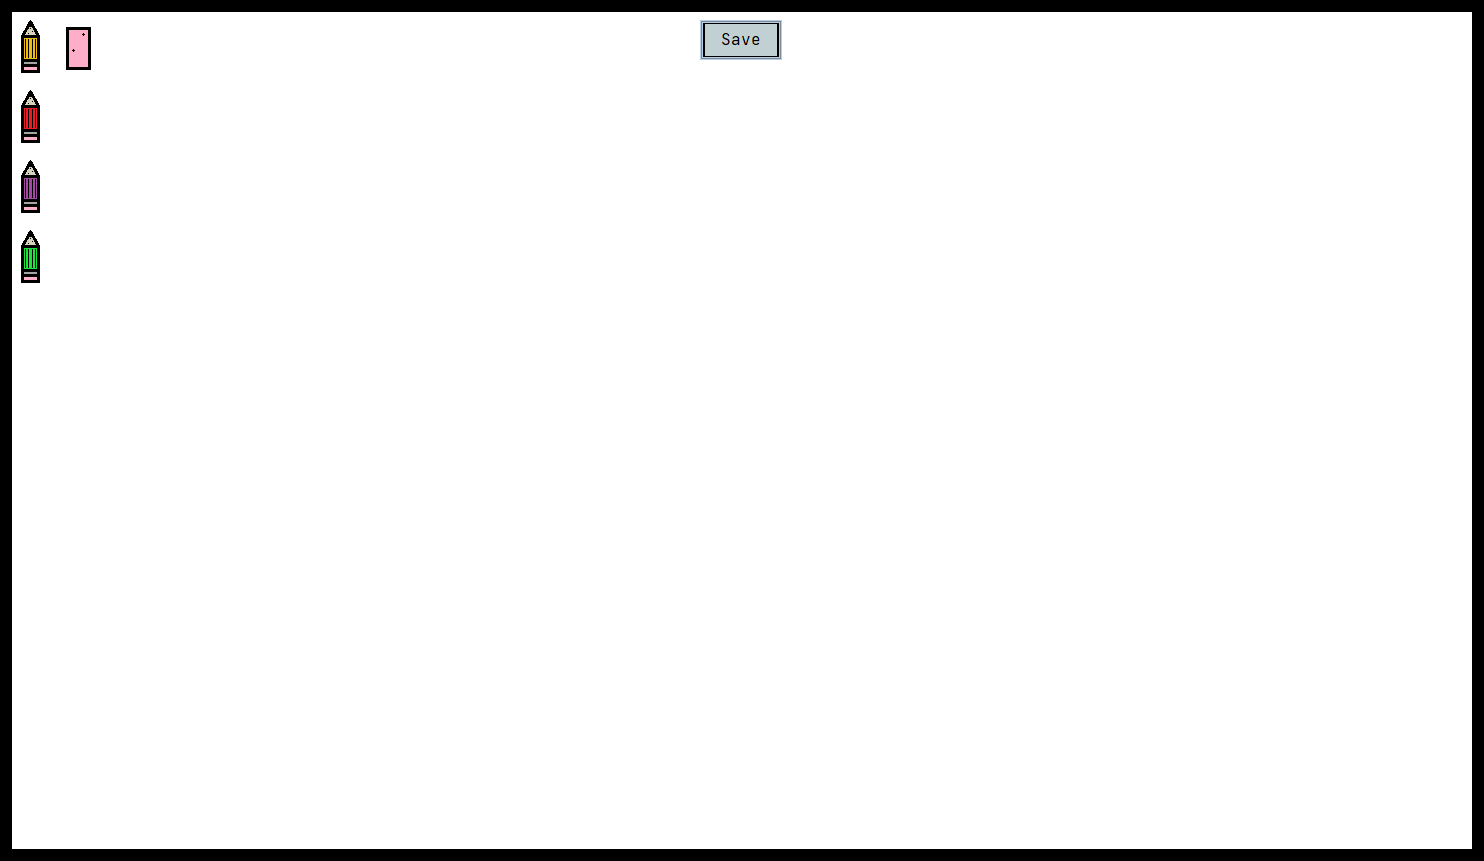
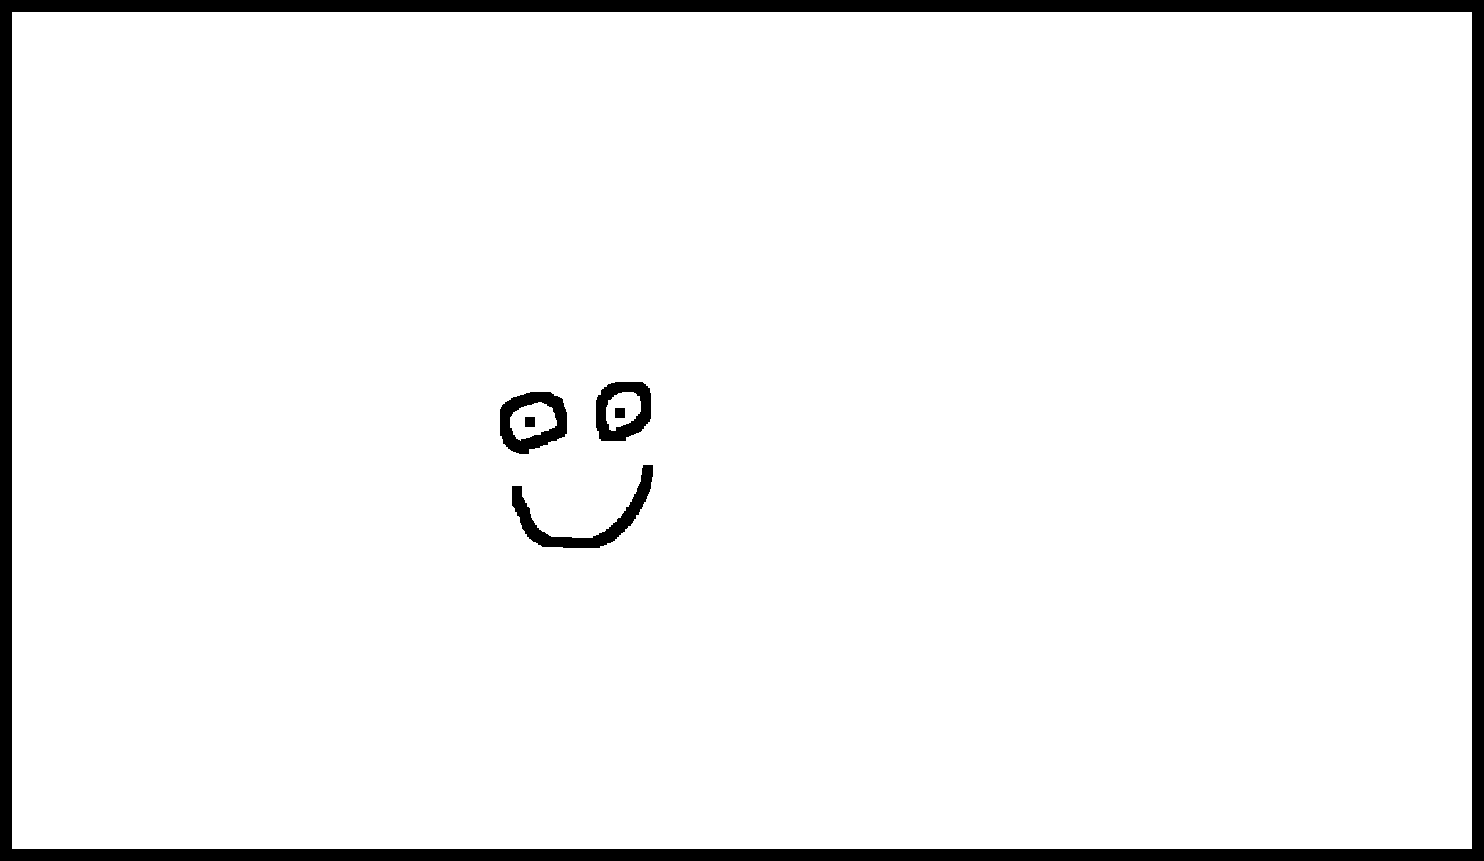
test

diff --git a/Painter/src/ColorCanvas.java b/Painter/src/ColorCanvas.java
@@ -6,6 +6,7 @@ import java.awt.Color;
 import java.awt.image.BufferedImage;
 import java.io.File;
 import java.io.IOException;
+import java.util.ArrayList;
 import java.util.Scanner;
 import java.awt.Graphics2D;
 import static javax.swing.JOptionPane.showMessageDialog;
@@ -30,7 +31,7 @@ public class ColorCanvas {
         cnv_frame.setResizable(true);
 
         // Icon for top-left corener of Frame
-        ImageIcon img = new ImageIcon("C:/Users/nfade/OneDrive/Desktop/Painter/assets/image_icon.png");
+        ImageIcon img = new ImageIcon("C:\\Users\\nfade\\OneDrive\\Documents\\GitHub\\painter\\assets\\image_icon.png");
         cnv_frame.setIconImage(img.getImage());
 
         // Setting up Panel
@@ -58,26 +59,28 @@ public class ColorCanvas {
         JButton save_image;
         JButton size_large;
 
+        ArrayList<JButton> buttons = new ArrayList();
+
         ImageIcon option_draw_image = new ImageIcon
-            ("C:/Users/nfade/OneDrive/Desktop/Painter/assets/option_draw.png");
+            ("C:\\Users\\nfade\\OneDrive\\Documents\\GitHub\\painter\\assets\\option_draw.png");
 
         ImageIcon option_erase_image = new ImageIcon
-            ("C:/Users/nfade/OneDrive/Desktop/Painter/assets/option_erase.png");
+            ("C:\\Users\\nfade\\OneDrive\\Documents\\GitHub\\painter\\assets\\option_erase.png");
 
         ImageIcon option_colorRed_image = new ImageIcon
-            ("C:/Users/nfade/OneDrive/Desktop/Painter/assets/option_colorRed.png");
+            ("C:\\Users\\nfade\\OneDrive\\Documents\\GitHub\\painter\\assets\\option_colorRed.png");
 
         ImageIcon option_colorPurple_image = new ImageIcon
-            ("C:/Users/nfade/OneDrive/Desktop/Painter/assets/option_colorPurple.png");
+            ("C:\\Users\\nfade\\OneDrive\\Documents\\GitHub\\painter\\assets\\option_colorPurple.png");
 
         ImageIcon option_colorGreen_image = new ImageIcon
-            ("C:/Users/nfade/OneDrive/Desktop/Painter/assets/option_colorGreen.png");
+            ("C:\\Users\\nfade\\OneDrive\\Documents\\GitHub\\painter\\assets\\option_colorGreen.png");
 
         ImageIcon saveIcon = new ImageIcon
-            ("C:/Users/nfade/OneDrive/Desktop/Painter/assets/save_button.png");
+            ("C:\\Users\\nfade\\OneDrive\\Documents\\GitHub\\painter\\assets\\save_button.png");
 
         ImageIcon sizeLargeIcon = new ImageIcon
-            ("C:/Users/nfade/OneDrive/Desktop/Painter/assets/size_large.png");
+            ("C:\\Users\\nfade\\OneDrive\\Documents\\GitHub\\painter\\assets\\size_large.png");
 
         void optionDraw() {
 
@@ -88,6 +91,8 @@ public class ColorCanvas {
             option_draw.setBorderPainted(false);
             option_draw.setBackground(Color.white);
             cnv_panel.add(option_draw);
+
+            buttons.add(option_draw);
 
         }
 
@@ -101,6 +106,8 @@ public class ColorCanvas {
             option_erase.setBackground(Color.white);
             cnv_panel.add(option_erase);
 
+            buttons.add(option_erase);
+
         }
 
         void colorRed() {
@@ -112,6 +119,8 @@ public class ColorCanvas {
             option_colorRed.setBorderPainted(false);
             option_colorRed.setBackground(Color.white);
             cnv_panel.add(option_colorRed);
+
+            buttons.add(option_colorRed);
 
         }
 
@@ -125,6 +134,8 @@ public class ColorCanvas {
             option_colorPurple.setBackground(Color.white);
             cnv_panel.add(option_colorPurple);
 
+            buttons.add(option_colorPurple);
+
         }
 
         void colorGreen() {
@@ -137,6 +148,8 @@ public class ColorCanvas {
             option_colorGreen.setBackground(Color.white);
             cnv_panel.add(option_colorGreen);
 
+            buttons.add(option_colorGreen);
+
         }
 
         void saveImage() {
@@ -147,6 +160,8 @@ public class ColorCanvas {
             save_image.setFocusPainted(false);
             save_image.setBorderPainted(false);
             cnv_panel.add(save_image);
+
+            buttons.add(save_image);
 
         }
 
@@ -159,6 +174,17 @@ public class ColorCanvas {
             size_large.setIcon(sizeLargeIcon);
             cnv_panel.add(size_large);
 
+            buttons.add(size_large);
+
+        }
+
+        public void setAllButtonsInvisible(int x) {
+            if (x == 1) {
+                for (JButton button : buttons) { button.setVisible(false); }
+            } else {
+                for (JButton button : buttons) { button.setVisible(true); }
+            }
+            
         }
 
         public void save()
@@ -172,7 +198,7 @@ public class ColorCanvas {
                         "\nWarning, do not name it the same as another file.", null);
             try {
                 ImageIO.write(bImg, "png", new File
-                ("C:/Users/nfade/OneDrive/Desktop/Painter/saves/" + name + ".png"));
+                ("C:\\Users\\nfade\\OneDrive\\Documents\\GitHub\\painter\\saves\\" + name + ".png"));
             } catch (IOException e) {e.printStackTrace();}
         }
 
@@ -226,7 +252,9 @@ public class ColorCanvas {
             save_image.addActionListener(new ActionListener() {
                 public void actionPerformed(ActionEvent e) {
                     if(e.getSource() == save_image) {
+                        setAllButtonsInvisible(1);
                         save();
+                        setAllButtonsInvisible(0);
                     }}});
 
         }
@@ -236,19 +264,19 @@ public class ColorCanvas {
     class ColorTool {
 
         ImageIcon drawed_image = new ImageIcon
-                ("C:/Users/nfade/OneDrive/Desktop/Painter/assets/drawed_image_black.png");
+                ("C:\\Users\\nfade\\OneDrive\\Documents\\GitHub\\painter\\assets\\drawed_image_black.png");
 
         ImageIcon drawed_image_red = new ImageIcon
-                ("C:/Users/nfade/OneDrive/Desktop/Painter/assets/drawed_image_red.png");
+                ("C:\\Users\\nfade\\OneDrive\\Documents\\GitHub\\painter\\assets\\drawed_image_red.png");
 
         ImageIcon drawed_image_purple = new ImageIcon
-                ("C:/Users/nfade/OneDrive/Desktop/Painter/assets/drawed_image_purple.png");
+                ("C:\\Users\\nfade\\OneDrive\\Documents\\GitHub\\painter\\assets\\drawed_image_purple.png");
 
         ImageIcon drawed_image_green = new ImageIcon
-                ("C:/Users/nfade/OneDrive/Desktop/Painter/assets/drawed_image_green.png");
+                ("C:\\Users\\nfade\\OneDrive\\Documents\\GitHub\\painter\\assets\\drawed_image_green.png");
 
         ImageIcon erased_image = new ImageIcon
-                ("C:/Users/nfade/OneDrive/Desktop/Painter/assets/erased_image.png");
+                ("C:\\Users\\nfade\\OneDrive\\Documents\\GitHub\\painter\\assets\\erased_image.png");
 
         ImageIcon baseIcon = new ImageIcon();
 
